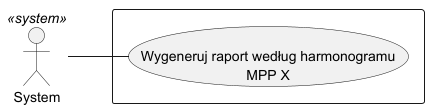
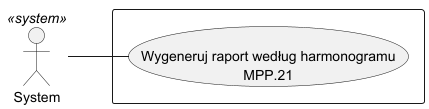
Sumatywny: Poprawa słownika aktorów oraz diagramów przypadków użycia (doc#4)

Changed region(s): [[0.303, 0.4679, 0.9394, 0.6055], [0.5455, 0.633, 0.697, 0.7431]]

diff --git a/sumatywny/etap1/13przypadkiuzycia.md b/sumatywny/etap1/13przypadkiuzycia.md
@@ -4,19 +4,18 @@ Tabela 1.3.1 Słownik aktorów w systemie
 
 |Aktor|Opis roli aktora|Przypadki użycia aktora|
 |-|-|-|
-|Gość|Użytkownik nieuwierzytelniony, nieposiadający dostępu do głównych funkcjonalności systemu. W celu wyświetlenia dalszych informacji oprócz strony głównej i strony logowania, użytkownik musi zalogować się do systemu.|Z wyjątkiem Modułu Obsługi Kont - brak|
-|Administrator|Administrator systemu, posiadający uprawnienia do zarządzania Modułem Obsługi Kont.|Z wyjątkiem Modułu Obsługi Kont - brak|
-|Student|Student to uczeń, który realizuje dany przedmiot lub przedmioty na semestrze, gdzie jest zobligowany do zamieszczania kodu na repozytorium.|Sprawdzanie swojego kodu - MPP X<br />Przeglądanie swoich raportów - MPP X|
-|Prowadzący|Prowadzący to nauczyciel, który ma dostęp do danego przedmiotu, może precyzować zakresy uprawnień dla Studentów i inne ustawienia przedmiotu. Jest on właścicielem danego przedmiotu.|Generowanie raportów - MPP X<br />Generowanie raportów po ustawieniu harmonogramu - MPP X<br />Generowanie raportów na żądanie - MPP X<br />Przeglądanie raportów - MPP X<br />Przeglądanie wszystkich raportów - MPP X<br />Przeglądanie jednego raportu - MPP X<br />Przeglądanie przedmiotów - MPP X<br />Sortuj przedmioty - MPP X<br />Filtruj przedmioty - MPP X<br />Usuwanie raportów - MPP X<br />Przeglądanie repozytoriów - MPP X<br />Przeglądanie kont użytkowników - MPP X<br />Tworzenie harmonogramu - MPP X<br />Tworzenie przedmiotu - MPP X<br />Edycja przedmiotu - MPP X<br />Usuwanie przedmiotu - MPP X<br />Tworzenie reguł - MPP X<br />Przeglądanie reguł - MPP X<br />Edycja reguł - MPP X<br />Usuwanie reguł - MPP X|
-|Prowadzący dodatkowy|Prowadzący dodatkowy to nauczyciel, który jest współrealizatorem danego przedmiotu, jednak nie posiada praw edycji.|Generowanie raportów - MPP X<br />Generowanie raportów na żądanie - MPP X<br />Przeglądanie raportów - MPP X<br />Przeglądanie wszystkich raportów - MPP X<br />Przeglądanie jednego raportu - MPP X<br />Przeglądanie przedmiotów - MPP X<br />Sortuj przedmioty - MPP X<br />Filtruj przedmioty - MPP X<br />Przeglądanie repozytoriów - MPP X<br />Przeglądanie kont użytkowników - MPP X<br />Przeglądanie reguł - MPP X|
-|System|System to aktor w systemie odpowiadający za automatycznie wykonywane i zaplanowane akcje bez dodatkowego działania Prowadzącego.|Wygeneruj raport według harmonogramu - MPP X|
+|Gość|Użytkownik nieuwierzytelniony, aby skorzystać z funkcjonalnośći aplikacji należy zarejestrować się lub zalogować się na obecnie istniejące konto z innym poziomem dostępu.|Z wyjątkiem Modułu Obsługi Kont - brak|
+|Administrator|Administrator to jedyny aktor posiadający uprawnienia pozwalające na zarządzanie wszystkimi dostępnymi kontami w systemie.|Z wyjątkiem Modułu Obsługi Kont - brak|
+|Student|Student to uczeń, który realizuje dany przedmiot lub przedmioty na semestrze, gdzie jest zobligowany do zamieszczania kodu na repozytorium.|MPP.19 - Sprawdzenie swojego kodu<br />MPP.20 - Przeglądanie swoich raportów|
+|Prowadzący|Prowadzący to nauczyciel akademicki, który zarządza dostępnymi przedmiotami wraz z ich regułami oraz harmonogramami i monitoruje wyniki Studentów względem możliwego plagiatu.|MPP.1 - Generowanie raportu po ustawieniu harmonogramu<br />MPP.2 - Generowanie raportu na żądanie<br />MPP.3 - Przeglądanie wszystkich raportów<br />MPP.4 - Przeglądanie jednego raportu<br />MPP.5 - Przeglądanie przedmiotów<br />MPP.6 - Filtrowanie przedmiotów<br />MPP.7 - Sortowanie przedmiotów<br />MPP.8 - Usuwanie raportów<br />MPP.9 - Przeglądanie repozytoriów<br />MPP.10 - Przeglądanie kont użytkowników<br />MPP.11 - Przeglądanie harmonogramu<br />MPP.12 - Przeglądanie reguł<br />MPP.13 - Tworzenie przedmiotu<br />MPP.14 - Edycja przedmiotu<br />MPP.15 - Usuwanie przedmiotu<br />MPP.16 - Tworzenie reguł<br />MPP.17 - Edycja reguł<br />MPP.18 - Usuwanie reguł|
+|Prowadzący dodatkowy|Prowadzący dodatkowy to nauczyciel akademicki posiadający jedynie prawo do odczytu w danym przedmiocie.|MPP.2 - Generowanie raportu na żądanie<br />MPP.3 - Przeglądanie wszystkich raportów<br />MPP.4 - Przeglądanie jednego raportu<br />MPP.5 - Przeglądanie przedmiotów<br />MPP.6 - Filtrowanie przedmiotów<br />MPP.7 - Sortowanie przedmiotów<br />MPP.9 - Przeglądanie repozytoriów<br />MPP.10 - Przeglądanie kont użytkowników<br />MPP.12 - Przeglądanie reguł|
+|System|System to aktor w systemie odpowiadający za automatyczne wykonywanie zaplanowanych akcji bez dodatkowego działania Prowadzącego.|MPP.21 - Wygeneruj raport według harmonogramu|
 
 <br>
 
 ![Diagram przypadków użycia - aktor Student](img/uc_student.png)
 
 Rysunek 1.3.1 Diagram przypadków użycia dla aktora Student
-
 
 ![Diagram przypadków użycia - aktor Prowadzący](img/uc_teacher.png)
 
